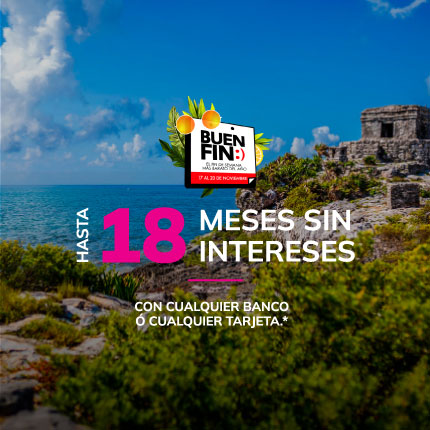
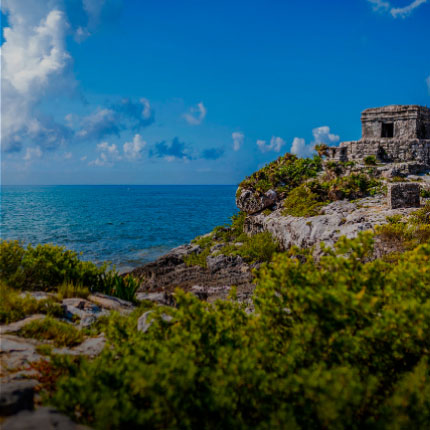
cambio en imagenes

Changed region(s): [[0.1512, 0.2116, 0.8465, 0.6349], [0.3023, 0.6953, 0.6953, 0.786], [0.4233, 0.6349, 0.5744, 0.6651]]

diff --git a/frontend/pages/index.vue b/frontend/pages/index.vue
@@ -3,12 +3,12 @@
       <client-only>
          <div class="sliderCo">
             <div v-if="$i18n.locale!=='es'">
-               <img v-if="!mobile" src="/images/homeBanners/buenfin-web-eng.jpg" :height="imgHeight" width="100%" />
-               <img v-else src="/images/homeBanners/buenfin-mobile-eng.jpg" :height="imgHeight" width="100%" />
+               <img v-if="!mobile" src="/images/homeBanners/default-web-eng_.jpg" :height="imgHeight" width="100%" />
+               <img v-else src="/images/homeBanners/default-mobile-eng.jpg" :height="imgHeight" width="100%" />
             </div>
             <div v-else>
-               <img v-if="!mobile" src="/images/homeBanners/buenfin-web-esp.jpg" :height="imgHeight" width="100%" />
-               <img v-else src="/images/homeBanners/buenfin-mobile-esp.jpg" :height="imgHeight" width="100%" />
+               <img v-if="!mobile" src="/images/homeBanners/default-web-esp.jpg" :height="imgHeight" width="100%" />
+               <img v-else src="/images/homeBanners/default-mobile-esp_.jpg" :height="imgHeight" width="100%" />
 
             </div>
 

diff --git a/frontend/nuxt.config.js b/frontend/nuxt.config.js
@@ -73,8 +73,8 @@ export default {
       src: '~/plugins/vuex-persist',
       ssr: false,
     },
-    { src: '~/plugins/zohoScript.js', mode: 'client' },
-    { src: '~/plugins/zohoPop.js', mode: 'client' },
+   //  { src: '~/plugins/zohoScript.js', mode: 'client' },
+   //  { src: '~/plugins/zohoPop.js', mode: 'client' },
     "~/plugins/googleAnalytics.js",
     "~/plugins/vue2-google-maps.js",
     // "~/plugins/facebook.js",
